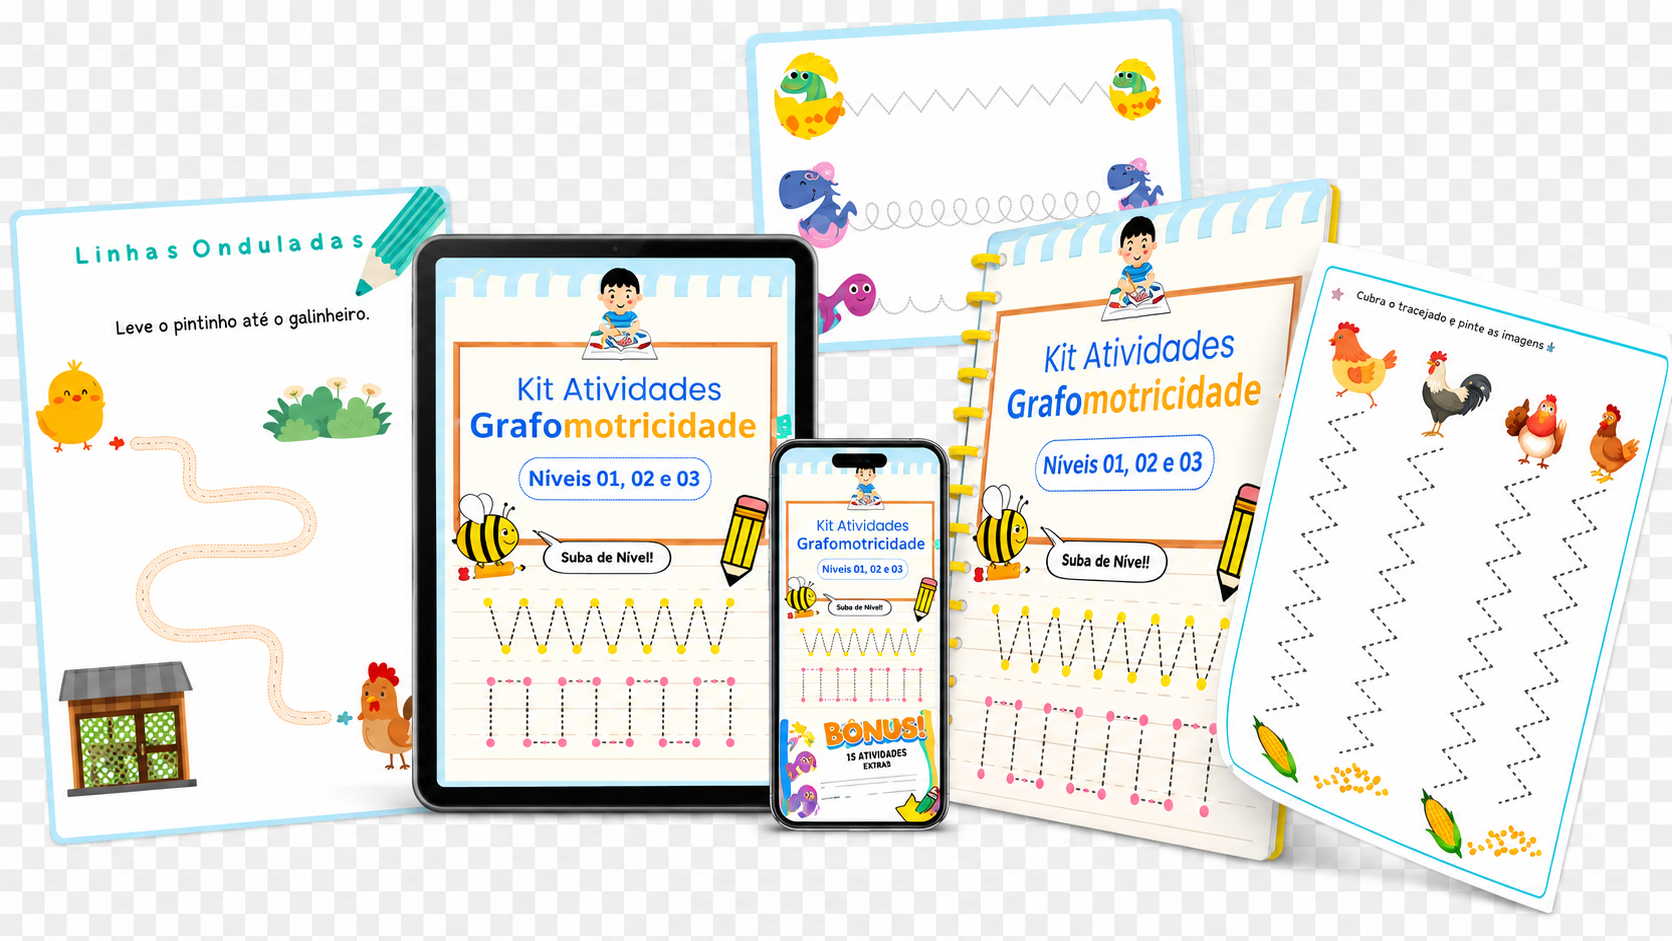
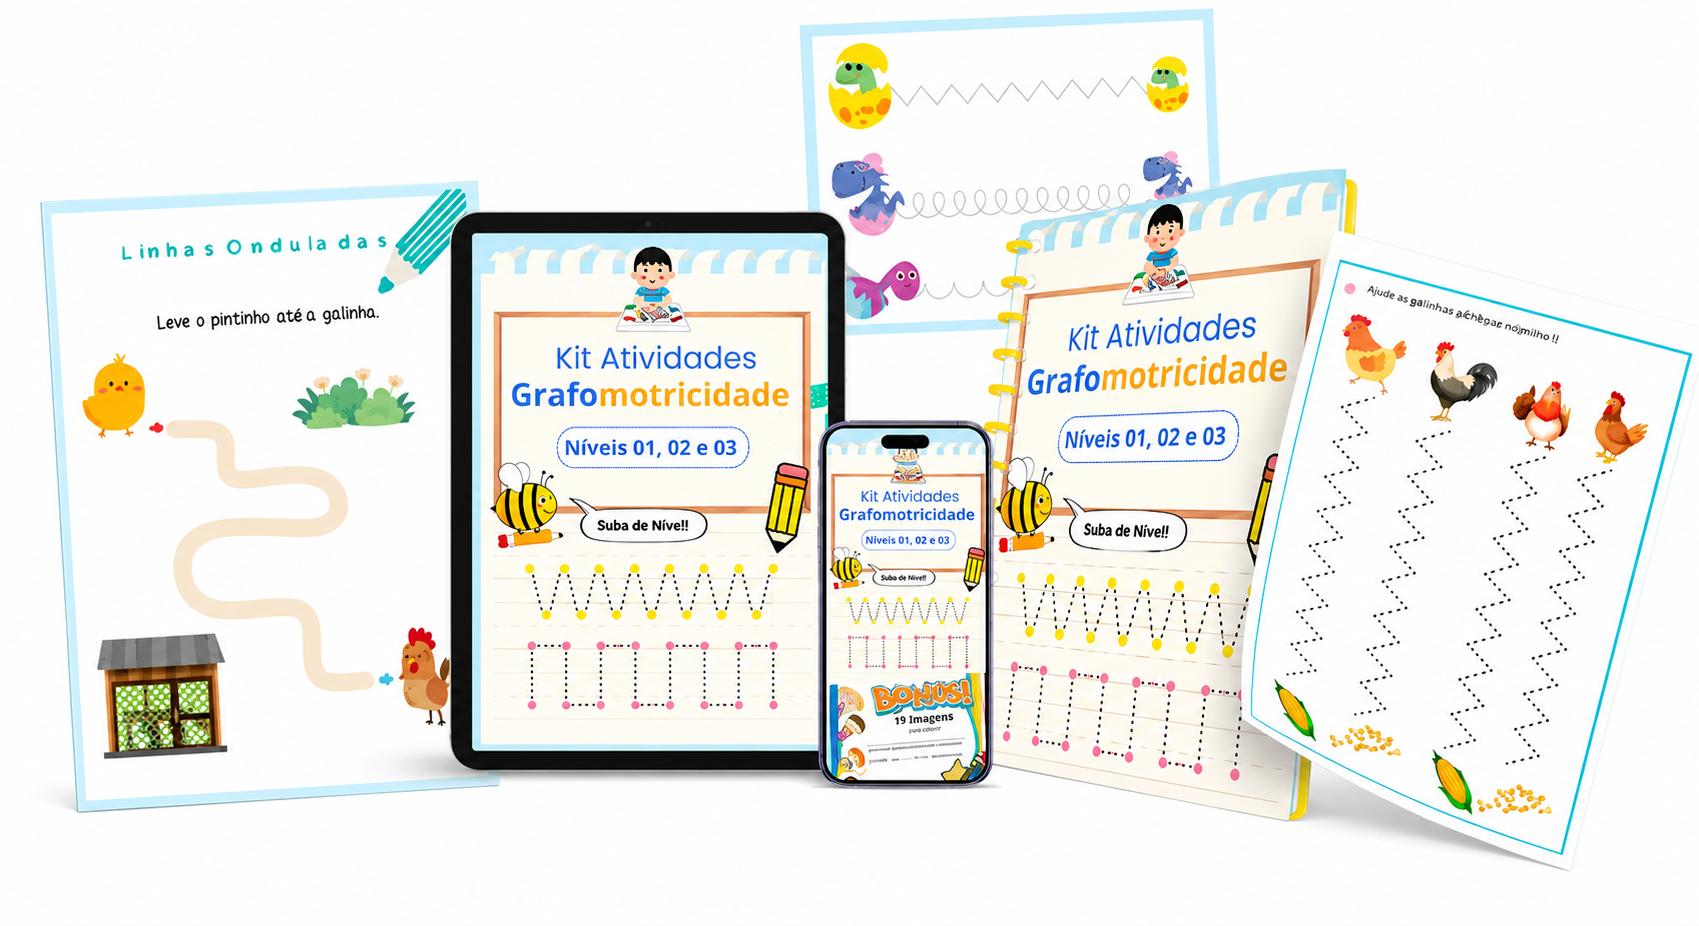
attv]

Changed region(s): [[0.0, 0.0, 1.0, 0.9676], [0.8086, 0.5745, 0.8397, 0.7257]]

diff --git a/promocao.html b/promocao.html
@@ -161,10 +161,10 @@
       border-radius: var(--radius);
       overflow: hidden;
       box-shadow: var(--shadow-md);
-      max-width: 640px;
+      max-width: 360px;
       margin: 28px auto 0;
       background: #000;
-      aspect-ratio: 16/9;
+      aspect-ratio: 9/16;
     }
     .vsl-wrap video {
       width: 100%;
@@ -266,52 +266,34 @@
     .kit-list li span { flex-shrink: 0; }
 
     /* ─── CAROUSEL ───────────────────────────────── */
-    .carousel-wrap {
-      position: relative;
+    .marquee-wrap {
       overflow: hidden;
       border-radius: var(--radius);
       box-shadow: var(--shadow-md);
       margin: 32px auto 0;
-      max-width: 500px;
       background: #fff;
+      padding: 12px 0;
     }
-    .carousel-track {
+    .marquee-track {
       display: flex;
-      transition: transform .9s cubic-bezier(.4,0,.2,1);
+      gap: 14px;
+      width: max-content;
+      animation: marqueeScroll 28s linear infinite;
     }
-    .carousel-track img {
-      min-width: 100%;
-      width: 100%;
-      height: 340px;
+    .marquee-wrap:hover .marquee-track { animation-play-state: paused; }
+    .marquee-track img {
+      height: 220px;
+      width: auto;
       object-fit: contain;
+      border-radius: 10px;
       flex-shrink: 0;
       background: #fff;
+      box-shadow: 0 2px 10px rgba(0,0,0,.08);
     }
-    .carousel-btn {
-      position: absolute;
-      top: 50%; transform: translateY(-50%);
-      background: rgba(255,255,255,.9);
-      border: none; cursor: pointer;
-      width: 40px; height: 40px;
-      border-radius: 50%;
-      font-size: 1.1rem;
-      display: flex; align-items: center; justify-content: center;
-      box-shadow: var(--shadow);
-      z-index: 10;
-      transition: background .2s;
+    @keyframes marqueeScroll {
+      0%   { transform: translateX(0); }
+      100% { transform: translateX(-50%); }
     }
-    .carousel-btn:hover { background: #fff; }
-    .carousel-btn--prev { left: 10px; }
-    .carousel-btn--next { right: 10px; }
-    .carousel-dots {
-      display: flex; justify-content: center; gap: 6px; margin-top: 14px;
-    }
-    .carousel-dots button {
-      width: 8px; height: 8px; border-radius: 50%; border: none;
-      background: #d1d5db; cursor: pointer; padding: 0;
-      transition: background .2s, transform .2s;
-    }
-    .carousel-dots button.active { background: var(--green); transform: scale(1.4); }
 
     /* ─── ATIVIDADES ─────────────────────────────── */
     .activity-grid {
@@ -588,6 +570,83 @@
       letter-spacing: .03em;
     }
 
+    /* ─── CTA BOX (screenshot-style) ────────────── */
+    .cta-box {
+      background: linear-gradient(160deg, #eaf4ff 0%, #f0fff4 100%);
+      border: 2px solid #bfdbfe;
+      border-radius: 24px;
+      padding: 36px 32px 32px;
+      max-width: 520px;
+      margin: 0 auto;
+      text-align: center;
+      box-shadow: var(--shadow-md);
+    }
+    .cta-box__img {
+      max-width: 320px;
+      margin: 0 auto 24px;
+      border-radius: 12px;
+    }
+    .cta-checklist {
+      text-align: left;
+      margin: 0 0 24px;
+    }
+    .cta-checklist li {
+      display: flex;
+      align-items: center;
+      gap: 8px;
+      font-size: .9rem;
+      padding: 6px 0;
+      border-bottom: 1px solid rgba(0,0,0,.06);
+      color: var(--text);
+      font-weight: 500;
+    }
+    .cta-checklist li:last-child { border-bottom: none; }
+    .cta-checklist li span { flex-shrink: 0; }
+    .cta-price-total {
+      font-size: .88rem;
+      color: var(--text-light);
+      margin-bottom: 4px;
+    }
+    .cta-price-total s { color: #ef4444; font-weight: 700; }
+    .cta-price-label {
+      font-size: .9rem;
+      color: var(--text);
+      margin-bottom: 6px;
+    }
+    .cta-price-main {
+      font-size: 4rem;
+      font-weight: 900;
+      color: var(--green-dark);
+      line-height: 1;
+      margin: 4px 0 12px;
+    }
+    .cta-price-main small { font-size: 1.8rem; vertical-align: super; font-weight: 900; }
+    .cta-access-tag {
+      font-size: .72rem;
+      font-weight: 800;
+      letter-spacing: .1em;
+      text-transform: uppercase;
+      color: var(--text-light);
+      margin-bottom: 22px;
+    }
+    .cta-badges {
+      display: flex;
+      justify-content: center;
+      gap: 18px;
+      flex-wrap: wrap;
+      margin-top: 18px;
+    }
+    .cta-badge {
+      display: flex;
+      flex-direction: column;
+      align-items: center;
+      gap: 3px;
+      font-size: .7rem;
+      color: var(--text-light);
+      font-weight: 600;
+    }
+    .cta-badge span:first-child { font-size: 1.4rem; }
+
     /* ─── RESPONSIVE ─────────────────────────────── */
     @media (max-width: 768px) {
       .section { padding: 48px 0; }
@@ -603,7 +662,7 @@
       .offer-box      { padding: 28px 20px; }
       .offer-box__price { font-size: 3rem; }
       .summary-card   { padding: 24px 18px; }
-      .carousel-track img { height: 240px; }
+      .marquee-track img { height: 160px; }
       .sticky-cta     { display: block; }
     }
     @media (max-width: 480px) {
@@ -776,8 +835,9 @@
         <li><span>✅</span> Ideal para complementar a alfabetização</li>
       </ul>
 
-      <div class="carousel-wrap" id="carousel">
-        <div class="carousel-track" id="carouselTrack2">
+      <div class="marquee-wrap">
+        <div class="marquee-track" aria-hidden="true">
+          <!-- set 1 -->
           <img src="carrossel2/XlHLrS9570975.jpg"   alt="Atividade 1" loading="eager" />
           <img src="carrossel2/tfokiB9570975.jpg"   alt="Atividade 2" loading="lazy" />
           <img src="carrossel2/pCNsaD1394579-1.jpg" alt="Atividade 3" loading="lazy" />
@@ -786,11 +846,17 @@
           <img src="carrossel2/JQsrdq9570975.jpg"   alt="Atividade 6" loading="lazy" />
           <img src="carrossel2/jBIgre1343796.jpg"   alt="Atividade 7" loading="lazy" />
           <img src="carrossel2/gIhMKA9570975.jpg"   alt="Atividade 8" loading="lazy" />
+          <!-- set 2 — duplicado para loop contínuo -->
+          <img src="carrossel2/XlHLrS9570975.jpg"   alt="" loading="lazy" />
+          <img src="carrossel2/tfokiB9570975.jpg"   alt="" loading="lazy" />
+          <img src="carrossel2/pCNsaD1394579-1.jpg" alt="" loading="lazy" />
+          <img src="carrossel2/MrCoBM9570975.jpg"   alt="" loading="lazy" />
+          <img src="carrossel2/JzohEa9570975.jpg"   alt="" loading="lazy" />
+          <img src="carrossel2/JQsrdq9570975.jpg"   alt="" loading="lazy" />
+          <img src="carrossel2/jBIgre1343796.jpg"   alt="" loading="lazy" />
+          <img src="carrossel2/gIhMKA9570975.jpg"   alt="" loading="lazy" />
         </div>
-        <button class="carousel-btn carousel-btn--prev" id="carouselPrev2" aria-label="Anterior">&#8249;</button>
-        <button class="carousel-btn carousel-btn--next" id="carouselNext2" aria-label="Próximo">&#8250;</button>
       </div>
-      <div class="carousel-dots" id="carouselDots2"></div>
     </div>
   </section>
 
@@ -1079,6 +1145,44 @@
   </section>
 
   <!-- ═══════════════════════════════════════════
+       CTA BOX — estilo screenshot
+  ═══════════════════════════════════════════ -->
+  <section class="section section--white">
+    <div class="container text-center">
+      <div class="cta-box">
+        <img src="assets/promo/banner.png" alt="Kit Grafomotricidade Infantil" class="cta-box__img" />
+
+        <ul class="cta-checklist">
+          <li><span>✅</span> +350 Atividades de Grafomotricidade</li>
+          <li><span>✅</span> <strong>Bônus 01:</strong> Plano de Aula Personalizado</li>
+          <li><span>✅</span> <strong>Bônus 02:</strong> Caderno dos Números</li>
+          <li><span>✅</span> <strong>Bônus 03:</strong> Caderno das Cores</li>
+          <li><span>✅</span> <strong>Bônus 04:</strong> Livro Trabalhar Pré-Escrita</li>
+          <li><span>✅</span> <strong>Bônus 05:</strong> 100 Exercícios Extras de Grafomotricidade</li>
+          <li><span>✅</span> <strong>Bônus 06:</strong> Fichas de Coordenação Motora</li>
+          <li><span>✅</span> <strong>Bônus 07:</strong> Fichas de Identificação</li>
+          <li><span>✅</span> <strong>Bônus 08:</strong> Certificado Personalizado</li>
+          <li><span>✅</span> Suporte Profissional</li>
+          <li><span>✅</span> Garantia Incondicional</li>
+        </ul>
+
+        <p class="cta-price-total">No total tudo deveria custar <s>R$ 453,00</s></p>
+        <p class="cta-price-label">Mas hoje você vai ter acesso completo por</p>
+        <p class="cta-price-main"><small>R$</small> 37,90</p>
+        <p class="cta-access-tag">Acesso Vitalício &nbsp;|&nbsp; Acesso Imediato</p>
+
+        <a href="https://pay.cakto.com.br/qsigy5w_877646" class="btn btn--lg" target="_blank" rel="noopener" style="max-width:100%;border-radius:14px;">QUERO GARANTIR O MEU KIT AGORA!</a>
+
+        <div class="cta-badges">
+          <div class="cta-badge"><span>🔒</span><span>Compra Segura</span></div>
+          <div class="cta-badge"><span>✅</span><span>Satisfação Garantida</span></div>
+          <div class="cta-badge"><span>🛡</span><span>Privacidade Protegida</span></div>
+        </div>
+      </div>
+    </div>
+  </section>
+
+  <!-- ═══════════════════════════════════════════
        17. FAQ
   ═══════════════════════════════════════════ -->
   <section class="section section--blue">
@@ -1173,49 +1277,6 @@
       });
     });
 
-    /* ─── Carousel ───────────────────────────────── */
-    (function() {
-      var track    = document.getElementById('carouselTrack2');
-      var dotsWrap = document.getElementById('carouselDots2');
-      var prev     = document.getElementById('carouselPrev2');
-      var next     = document.getElementById('carouselNext2');
-      if (!track) return;
-
-      var slides  = track.querySelectorAll('img');
-      var total   = slides.length;
-      var current = 0;
-      var timer;
-
-      slides.forEach(function(_, i) {
-        var btn = document.createElement('button');
-        btn.setAttribute('aria-label', 'Slide ' + (i + 1));
-        if (i === 0) btn.classList.add('active');
-        btn.addEventListener('click', function() { goTo(i); resetTimer(); });
-        dotsWrap.appendChild(btn);
-      });
-
-      function goTo(idx) {
-        current = (idx + total) % total;
-        track.style.transform = 'translateX(-' + (current * 100) + '%)';
-        dotsWrap.querySelectorAll('button').forEach(function(b, i) {
-          b.classList.toggle('active', i === current);
-        });
-      }
-      function autoPlay()   { goTo(current + 1); }
-      function resetTimer() { clearInterval(timer); timer = setInterval(autoPlay, 5000); }
-
-      prev.addEventListener('click', function() { goTo(current - 1); resetTimer(); });
-      next.addEventListener('click', function() { goTo(current + 1); resetTimer(); });
-
-      var startX = 0;
-      track.addEventListener('touchstart', function(e) { startX = e.touches[0].clientX; }, { passive: true });
-      track.addEventListener('touchend',   function(e) {
-        var diff = startX - e.changedTouches[0].clientX;
-        if (Math.abs(diff) > 40) { goTo(diff > 0 ? current + 1 : current - 1); resetTimer(); }
-      }, { passive: true });
-
-      resetTimer();
-    })();
 
     /* ─── Sticky CTA mobile ──────────────────────── */
     var sticky = document.getElementById('stickyCta');
